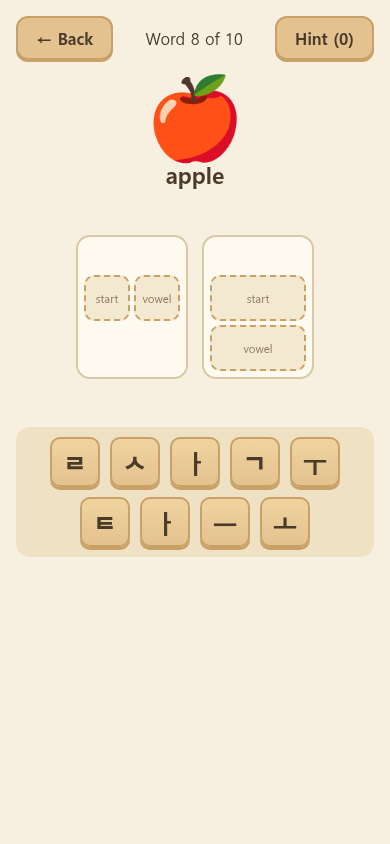
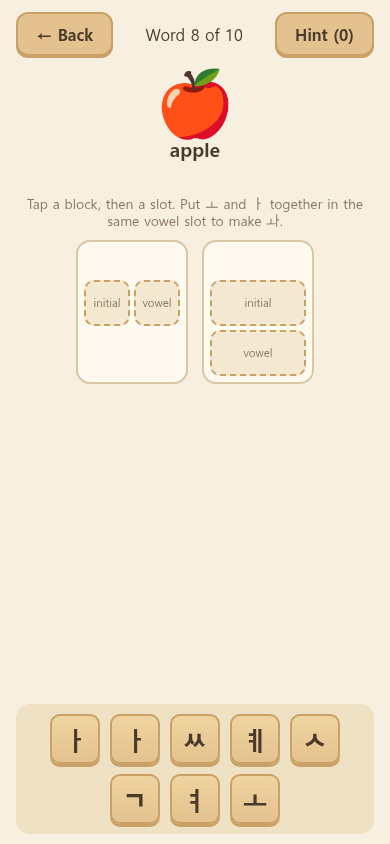
Fix mobile tray clipping and clarify hangul slot labels

diff --git a/js/game.js b/js/game.js
@@ -29,9 +29,11 @@
 
   // ---- screens ----
   function showHome() {
+    app.className = '';
     const n = progress.done.filter((id) => byId(id)).length;
     app.innerHTML = `<h1>Hangul Blocks</h1>
       <p class="sub">Build Korean words from letter blocks.<br>Pick a picture, drag or tap the blocks, and learn Hangul!</p>
+      <p class="sub"><b>How to play:</b> tap a block, then a slot to build the word.</p>
       <div class="progress-label">${n}/${WORDS.length} words</div>
       <div class="bar"><i style="width:${(n / WORDS.length) * 100}%"></i></div>
       ${THEMES.map((t) => { const ws = WORDS.filter((w) => w.theme === t.id); const d = ws.filter((w) => progress.done.includes(w.id)).length;
@@ -44,6 +46,7 @@
   }
 
   function showTheme(id) {
+    app.className = '';
     const t = THEMES.find((x) => x.id === id), ws = WORDS.filter((w) => w.theme === id);
     app.innerHTML = `<div class="topbar"><button class="btn" data-go="#/">← Home</button><h2>${esc(t.name)}</h2><span></span></div>
       <div class="wordlist">${ws.map((w) => `<button class="card ${progress.done.includes(w.id) ? 'done' : ''}" data-go="#/word/${w.id}"><span class="emo">${w.emoji}</span>${esc(w.english.split(' (')[0])}${progress.done.includes(w.id) ? ' ✓' : ''}</button>`).join('')}</div>`;
@@ -72,7 +75,7 @@
   function render() {
     const { word, sylls } = cur, used = usedIds();
     const list = WORDS.filter((w) => w.theme === word.theme), idx = list.indexOf(word);
-    const labels = { cho: 'start', jung: 'vowel', jong: 'end' };
+    const labels = { cho: 'initial', jung: 'vowel', jong: 'final' };
     const sylHtml = sylls.map((s, si) => {
       const st = status(s), text = H.slotSyllable(s.slots);
       const slot = (k) => `<button class="slot ${s.slots[k].length ? 'filled' : ''}" data-syl="${si}" data-kind="${k}" aria-label="syllable ${si + 1} ${labels[k]} slot">${s.slots[k].length ? esc(H.slotDisplay(k, s.slots[k])) : `<small>${labels[k]}</small>`}</button>`;
@@ -80,19 +83,21 @@
         <div class="grid ${s.layout}">${slot('cho')}${slot('jung')}${s.hasJong ? slot('jong').replace('class="slot', 'class="jong slot') : ''}</div></div>`;
     }).join('');
     const doneCount = progress.done.filter((id) => list.some((w) => w.id === id)).length;
-    app.innerHTML = `<div class="topbar"><button class="btn" data-go="#/theme/${word.theme}">← Back</button>
+    app.className = 'puzzle' + (sylls.length >= 4 ? ' many' : '');
+    app.innerHTML = `<div class="ptop"><div class="topbar"><button class="btn" data-go="#/theme/${word.theme}">← Back</button>
       <span>Word ${idx + 1} of ${list.length}</span><button class="btn" id="hint" ${cur.solved ? 'disabled' : ''}>Hint (${progress.hints[word.id] || 0})</button></div>
       <div class="pic" role="img" aria-label="${esc(word.english)}">${word.emoji}</div>
       <div class="meaning">${esc(word.english)}</div>
       <div class="hintline">${cur.hint || cur.solved ? esc(word.romanization) : ''}</div>
+      <p class="howto">Tap a block, then a slot. Put ㅗ and ㅏ together in the same vowel slot to make ㅘ.</p>
       <div class="syllables">${sylHtml}</div>
-      <div class="msg">${esc(cur.msg)}</div>
-      ${cur.solved ? `<div class="success"><div class="ko">${esc(word.korean)}</div><div class="rom">${esc(word.romanization)}</div><div>Great job! ✓</div>
+      <div class="msg">${esc(cur.msg)}</div></div>
+      <div class="pdock">${cur.solved ? `<div class="success"><div class="ko">${esc(word.korean)}</div><div class="rom">${esc(word.romanization)}</div><div>Great job! ✓</div>
         <div class="actions" style="margin-top:8px"><button class="btn" id="say">🔊 Listen</button><button class="btn primary" id="next">${idx + 1 < list.length ? 'Next' : 'Finish'}</button></div></div>`
-      : `<div class="tray">${cur.tiles.filter((t) => !used.has(t.id)).map((t) => `<button class="tile ${cur.selected === t.id ? 'sel' : ''}" data-tile="${t.id}">${esc(t.jamo)}</button>`).join('')}</div>`}`;
+      : `<div class="tray">${cur.tiles.filter((t) => !used.has(t.id)).map((t) => `<button class="tile ${cur.selected === t.id ? 'sel' : ''}" data-tile="${t.id}">${esc(t.jamo)}</button>`).join('')}</div>`}</div>`;
     app.querySelectorAll('[data-go]').forEach((b) => b.onclick = () => go(b.dataset.go));
     const hb = document.getElementById('hint');
-    if (hb) hb.onclick = () => { cur.hint = true; progress.hints[word.id] = (progress.hints[word.id] || 0) + 1; save(); render(); };
+    if (hb) hb.onclick = () => { if (!cur.hint) { cur.hint = true; progress.hints[word.id] = (progress.hints[word.id] || 0) + 1; save(); } render(); };
     if (cur.solved) {
       document.getElementById('say').onclick = () => speak(word.korean);
       document.getElementById('next').onclick = () => go(idx + 1 < list.length ? '#/word/' + list[idx + 1].id : '#/theme/' + word.theme);

diff --git a/css/style.css b/css/style.css
@@ -47,3 +47,18 @@ button{font:inherit;color:inherit;cursor:pointer}
 .success .rom{font-size:1.2rem;color:var(--ok);font-weight:700}
 .actions{display:flex;gap:10px;justify-content:center;flex-wrap:wrap}
 @keyframes shake{25%{transform:translateX(-4px)}75%{transform:translateX(4px)}}
+
+#app.puzzle{height:100vh;height:100dvh;min-height:0;display:flex;flex-direction:column;padding:0}
+.ptop{flex:1 1 auto;min-height:0;overflow-y:auto;padding:12px 16px 8px}
+.pdock{flex:none;padding:0 16px calc(10px + env(safe-area-inset-bottom))}
+.pdock .tray{margin:0}
+.pdock .success{margin:0}
+.howto{margin:0 0 4px;text-align:center;color:var(--muted);font-size:.85rem;line-height:1.3}
+.puzzle .pic{font-size:4rem}
+.puzzle .meaning{font-size:1.2rem;margin:2px 0 4px}
+.puzzle .msg{min-height:1.2em}
+.puzzle.many .syllables{gap:8px 8px;margin:6px 0}
+.puzzle.many .syl{width:92px;padding:4px}
+.puzzle.many .slot{min-height:40px;min-width:40px;font-size:1.4rem}
+.puzzle.many .result{height:1.7rem;line-height:1.7rem;font-size:1.3rem}
+.puzzle.many .pic{font-size:3rem}

diff --git a/RESULT.md b/RESULT.md
@@ -54,10 +54,12 @@
 
 ## 브라우저 검사
 - `google-chrome --headless=new --dump-dom tests/browser-check.html` → **BROWSER_CHECK_PASS** (30단어 자동 조립)
-- 스크린샷(390×844, 사과 퍼즐): `/workspace/dev/hangul-puzzle/screenshot-mobile.png`
+- 스크린샷(390×844): 사과 `/workspace/dev/hangul-puzzle/screenshot-mobile.png`, 안녕하세요 `/workspace/dev/hangul-puzzle/screenshot-hello.png` (트레이 타일 16개 모두 화면 안에 표시 확인)
 - 괜찮아요 화면 dump-dom 시 콘솔 에러 0건
 
 ## 알려진 한계
+- 퍼즐 화면은 위쪽(그림·음절 칸)만 스크롤, 자모 트레이는 하단 고정. 타일이 매우 많으면(5음절 초과 등) 트레이가 높아져 위쪽 스크롤 영역이 좁아짐
+- 슬롯 라벨은 initial/vowel/final (초성/중성/종성)
 - 실제 터치 기기·드래그 동작은 헤드리스에서 자동 검증하지 못함(코드 구현만, 수동 확인 필요)
 - 겹모음 슬롯은 실제 글자 모양 대신 단일 가로 칸으로 단순화
 - 한국어 음성은 기기·브라우저 음성 지원에 의존. 이모지 모양은 OS별로 다름

diff --git a/README.md b/README.md
@@ -3,9 +3,9 @@
 A casual web puzzle for learners of Korean. See a picture and its English meaning, then build the Korean word from consonant and vowel blocks.
 
 ## How to play
-- Tap a block to select it, then tap an empty slot (start / vowel / end). Or drag a block onto a slot.
+- Tap a block to select it, then tap an empty slot (initial / vowel / final). Or drag a block onto a slot.
 - Tap a filled slot to return its block to the tray.
-- Compound vowels are built from parts in the vowel slot (ㅗ+ㅏ=ㅘ). Compound final consonants are built in the end slot (ㄴ+ㅎ=ㄶ). Double consonants (ㄲ ㄸ ㅃ ㅆ ㅉ) are single blocks.
+- Compound vowels are built from parts in the vowel slot (ㅗ+ㅏ=ㅘ). Compound final consonants are built in the final slot (ㄴ+ㅎ=ㄶ). Double consonants (ㄲ ㄸ ㅃ ㅆ ㅉ) are single blocks.
 - Hint shows the romanization. Progress is saved in `localStorage` (`hangul-blocks-progress`); use **Reset progress** on the home screen to clear it.
 
 ## Run locally
